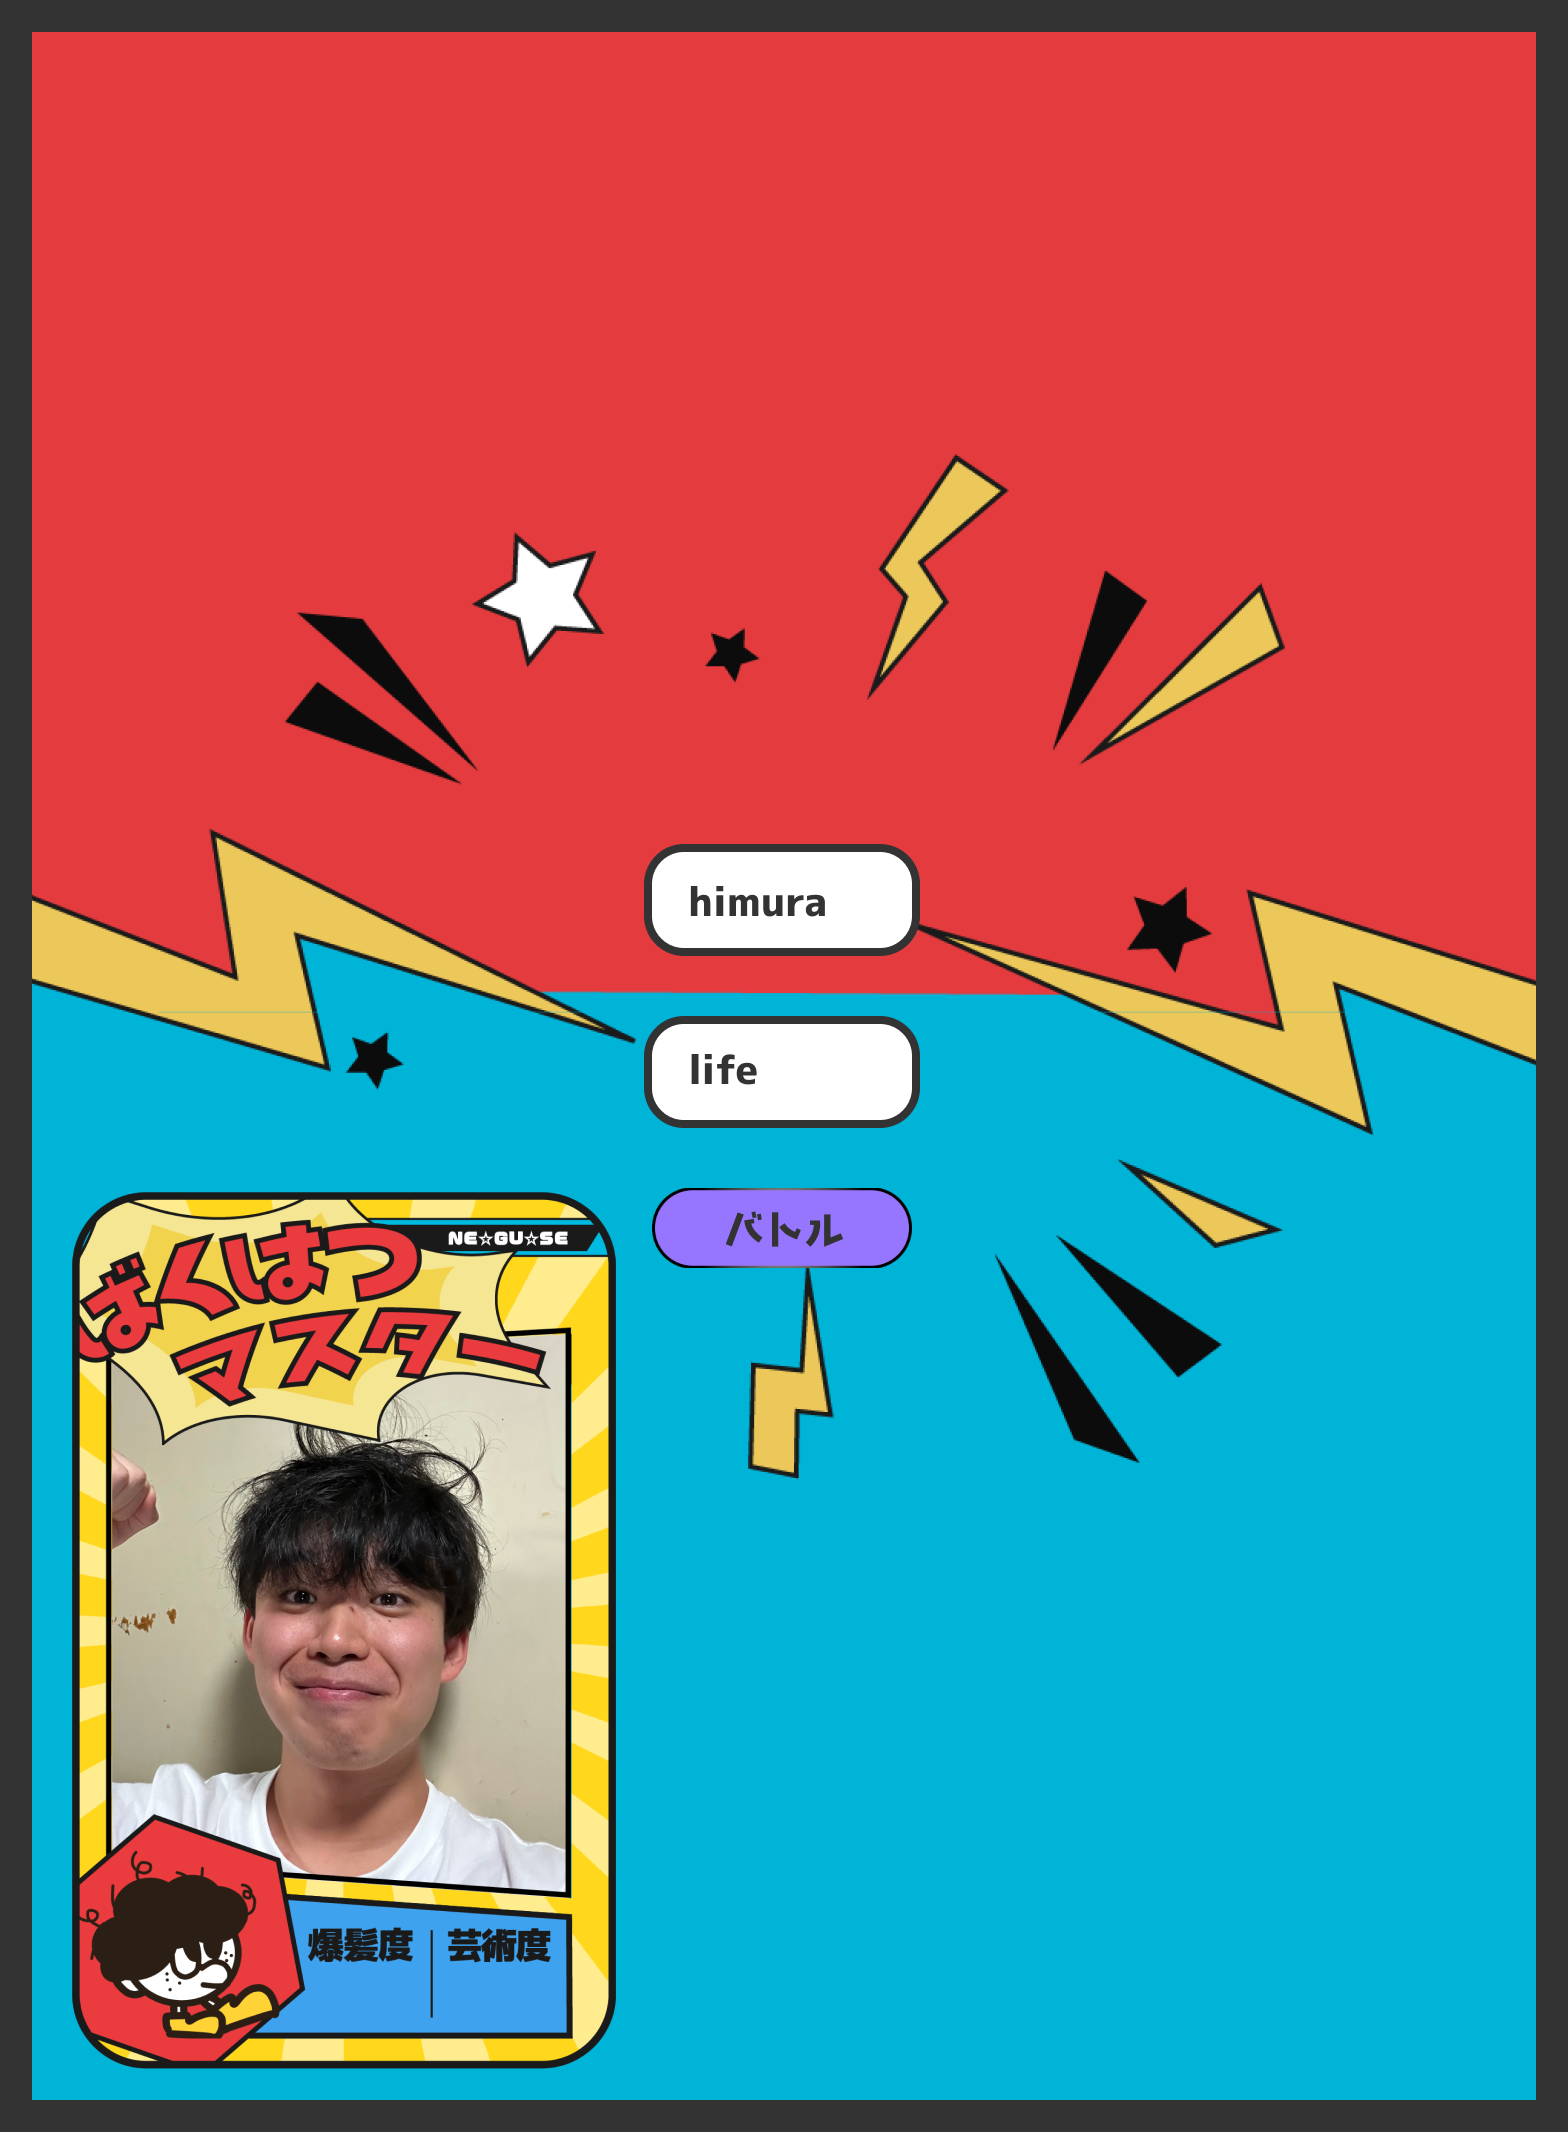
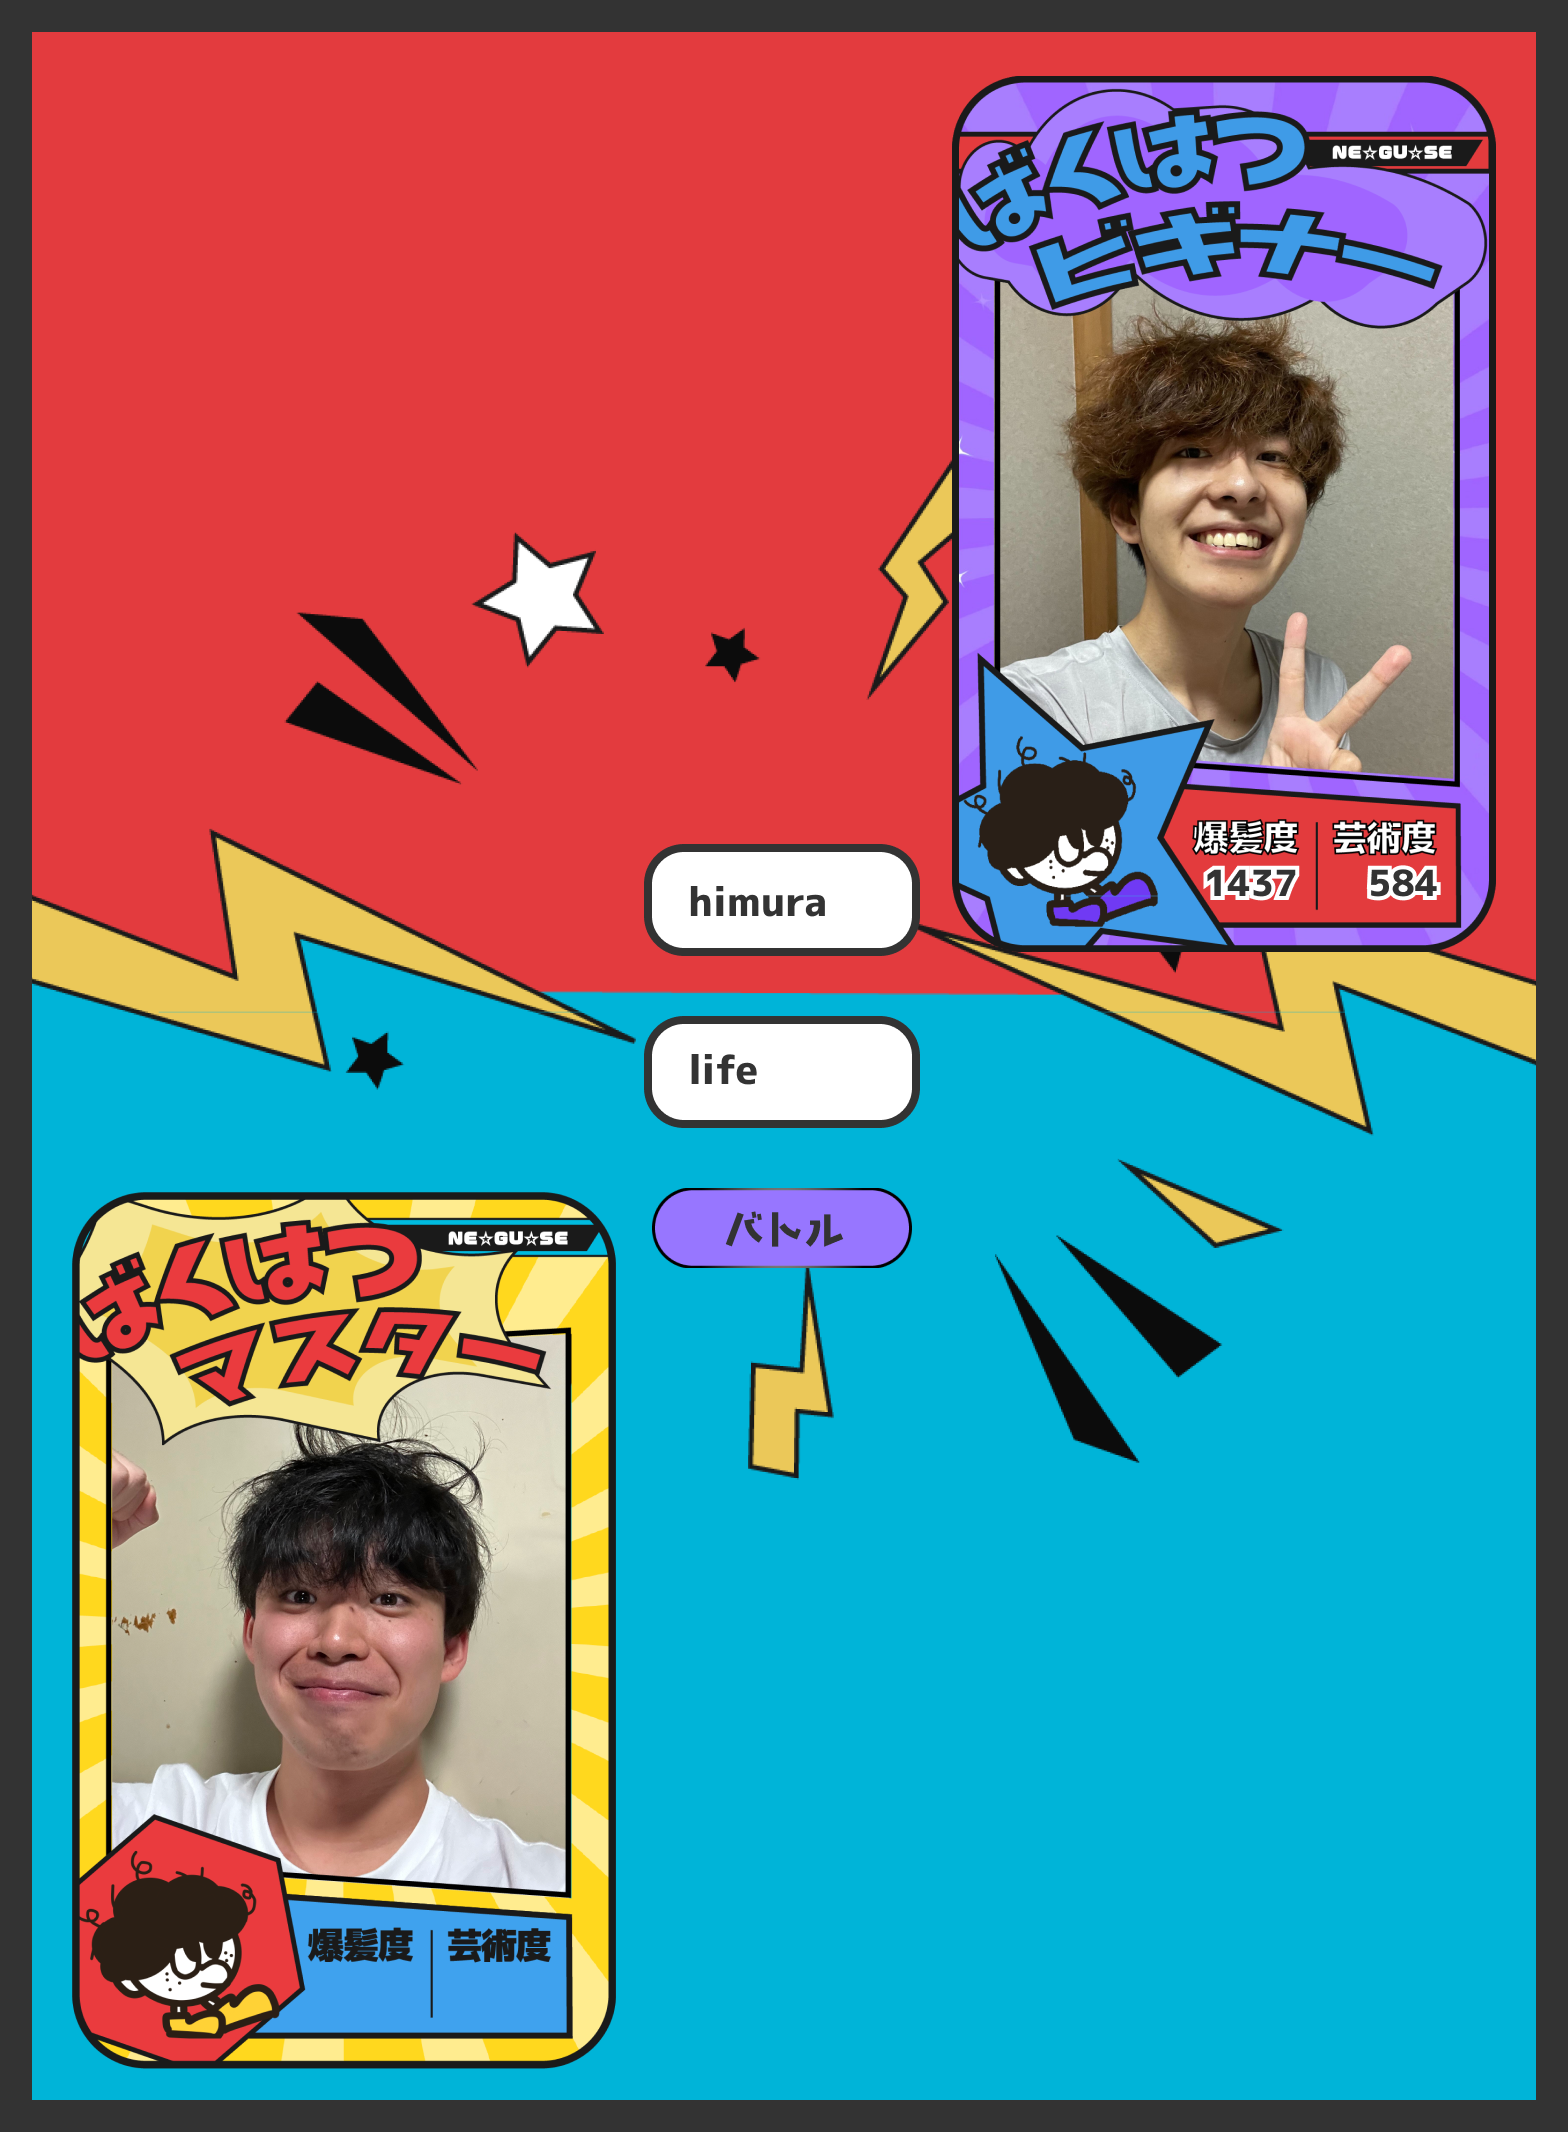
使い方パートのpcできたけど絶対値使ってるから幅変えたら崩れる

Changed region(s): [[0.5938, 0.031, 0.9688, 0.4644]]

diff --git a/style.css b/style.css
@@ -268,7 +268,7 @@
     color: #FFD239;
 }
 
-.step1-detail{
+/* .step1-detail{
     position: relative;
     font-family: Corporate-Logo-Rounded-Bold-ver3;
     font-size: 26px;
@@ -280,14 +280,69 @@
     top: 500px;
     left: 60%;
     z-index: 4;
+} */
+
+.step1-detail,
+.step2-detail {
+    position: relative;
+    font-family: Corporate-Logo-Rounded-Bold-ver3;
+    font-size: 30px;
+    color: #333333;
 }
+
+.step1-detail img,
+.step2-detail img{
+    position: absolute;
+    z-index: 7;
+}
+
+.step1-detail img{
+    top: 810px;
+    left: 68%;
+    width: 15%;
+}
+
+.step2-detail img{
+    top: 1350px;
+    left: 17%;
+    width: 15%;
+    transform: scaleX(-1);
+}
+
+
+.point {
+    position: absolute;
+    top: 480px;
+    left: 53%;
+    z-index: 4;
+}
+
+.larger-text {
+    font-size: 50px;
+}
+
 
 .order{
     position: absolute;
+    top: 650px;
+    left: 800px;
+    background-image: url(img/step1_sb_1.png);
+    background-size: contain;
+    background-repeat: no-repeat;
+    padding: 53px 45px 110px 80px;
+    z-index: 5;
 }
 
 .announce{
     position: absolute;
+    top: 830px;
+    left: 800px;
+    line-height: 1.2;
+    background-image: url(img/step1_sb_2.png);
+    background-size: contain;
+    background-repeat: no-repeat;
+    padding: 40px 90px 50px 50px;
+    z-index: 6;
 }
 
 .step02{
@@ -331,6 +386,36 @@
     z-index: 2;
 }
 
+.point2 {
+    position: absolute;
+    top: 1320px;
+    left: 33%;
+    background-image: url(img/step2_sb_1.png);
+    background-size: contain;
+    background-repeat: no-repeat;
+    padding: 53px 45px 110px 80px;
+    z-index: 9;
+}
+
+.order2{
+    position: absolute;
+    top: 1520px;
+    left: 20%;
+    line-height: 1.5;
+    background-image: url(img/step2_sb_2.png);
+    background-size: contain;
+    background-repeat: no-repeat;
+    padding: 100px 30px 80px 30px;
+    z-index: 7;
+}
+
+.announce2{
+    position: absolute;
+    top: 1770px;
+    left: 380px;
+    z-index: 8;
+    font-size: 50px;
+}
 
 
 /* 寝癖診断 */

diff --git a/index.html b/index.html
@@ -53,9 +53,10 @@
             <img src="img/step1_box.png" alt="" class="step1-box">
             <img src="img/step1_card.png" alt="" class="step1-card">
             <div class="step1-detail">
-                <p class="point">ポイント：<br>何度でも「再撮影」可能！！</p>
-                <p class="order">カメラで写真を撮ろう！<br>名前を入力してね</p>
+                <p class="point">ポイント：<br>何度でも<span class="larger-text">「再撮影」</span>可能！！</p>
+                <p class="order">① カメラで写真を撮ろう！<br>② 名前を入力してね</p>
                 <p class="announce">保存も<br>忘れずに</p>
+                <img src="img/boy_purple_dia.png" alt="">
             </div>
             <div class="step02">
                 <p class="step">ステップ</p>
@@ -63,6 +64,12 @@
             </div>
             <img src="img/step2_box.png" alt="" class="step2-box">
             <img src="img/step2_card.png" alt="" class="step2-card">
+            <div class="step2-detail">
+                <p class="point2">寝癖で競おう！</p>
+                <p class="order2">①自分の名前を入れよう<br>②友達と決めた合言葉を入れよう</p>
+                <p class="announce2">バトル開始！！</p>
+                <img src="img/boy_yellow_dia.png" alt="">
+            </div>
     </section>
     <section class="diagnosis">
         <div class="diagnosis-title">
